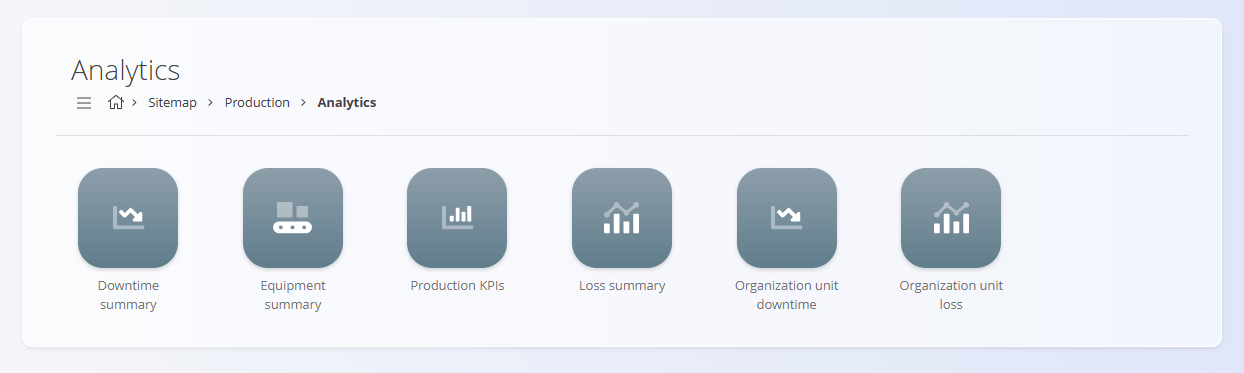
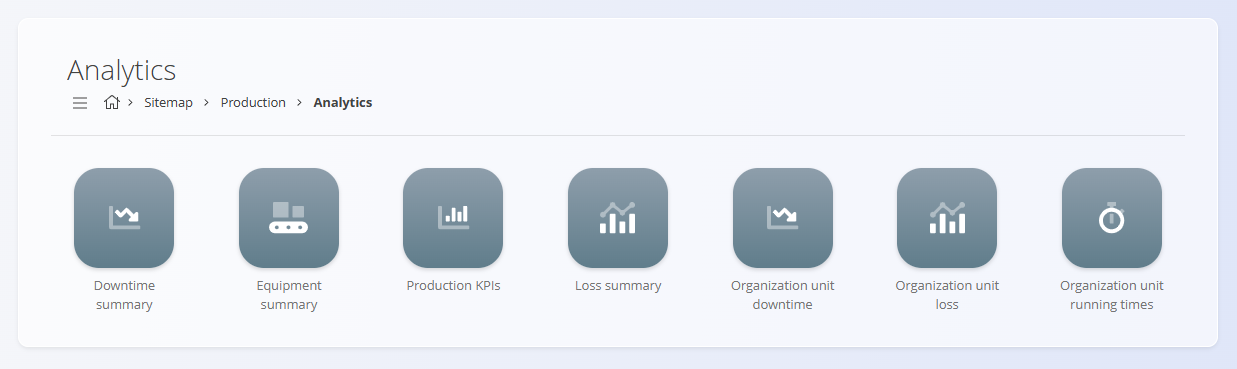
docs(en,sl,hr): add Organization unit running times
Add the Organization unit running times analytics page in all three
languages, with its summary and expanded-row screenshots, and list it
in the Production analytics sections. Update the Production analytics
image in each language.

diff --git a/hr/Domene/Proizvodnja/Analiza/OrganizationUnitRunningTimes.md b/hr/Domene/Proizvodnja/Analiza/OrganizationUnitRunningTimes.md
@@ -1,0 +1,52 @@
+<!-- app_route: /production/analytics/organization-unit-running-times -->
+<!-- app_label: Organization unit running times -->
+<!-- canonical_source_url: https://github.com/Tom-PIT/Connected.Docs/blob/main/hr/Domene/Proizvodnja/Analiza/OrganizationUnitRunningTimes.md -->
+<!-- canonical_source_title: Organization unit running times -->
+
+# Organization unit running times
+
+Pogled **Organization unit running times** prikazuje koliko je izvajalnih vremena zabilježeno za svaku organizacijsku jedinicu i koliko su ona ukupno trajala. Pogled koristite kada želite utvrditi koje organizacijske jedinice imaju najviše zabilježenog izvajalnog vremena u odabranom razdoblju.
+
+Ovaj pogled služi isključivo za analizu i **ne omogućuje** izradu ni promjenu operacija.
+
+Za pristup ovom pogledu otvorite **Proizvodnja / Analiza / Organization unit running times** u [navigaciji](../../../Zajednicko/UI/Navigacija.md).
+
+![Organization unit running times](../Images/OrganizationUnitRunningTimesViewHR.png "Organization unit running times")
+
+## Ukupne vrijednosti
+
+Dvije pločice na vrhu prikazuju ukupne vrijednosti za trenutni odabir:
+
+- **TOTAL COUNT** – Broj zabilježenih izvajalnih vremena.
+- **TOTAL DURATION** – Ukupno trajanje svih zabilježenih izvajalnih vremena, npr. **4d 17h 38min 11s**.
+
+## Filtri
+
+Lijeva bočna traka sadrži sljedeće filtre:
+
+- **DATE** – Odaberite razdoblje za koje želite prikazati izvajalna vremena.
+- **OPERATION** – Odaberite operaciju koju želite pregledati.
+
+## Popis organizacijskih jedinica
+
+Popis prikazuje zabilježena izvajalna vremena grupirana po **Organizacijskoj jedinici**. Za svaku organizacijsku jedinicu prikazuje:
+
+- **Organizacijska jedinica** – Šifra i naziv organizacijske jedinice.
+- **Count** – Broj zabilježenih izvajalnih vremena za tu organizacijsku jedinicu.
+- **Duration** – Ukupno trajanje tih izvajalnih vremena.
+
+Organizacijsku jedinicu pronađite pomoću polja za pretraživanje iznad popisa. Svaki redak možete proširiti strelicom s lijeve strane. Prošireni redak prikazuje svako zabilježeno izvajalno vrijeme za tu organizacijsku jedinicu, sa sljedećim stupcima:
+
+- **Start** – Datum i vrijeme početka izvajalnog vremena.
+- **End** – Datum i vrijeme završetka izvajalnog vremena.
+- **Duration** – Trajanje tog izvajalnog vremena.
+- **Operation** – Operacija koja je izvedena.
+- **Production order** – Proizvodni nalog kojem izvajalno vrijeme pripada, prikazan kao poveznica.
+
+![Organization unit running times – prošireni redak](../Images/OrganizationUnitRunningTimesExpandedHR.png "Organization unit running times – prošireni redak")
+
+## Izbornik
+
+Izbornik sadrži radnju **Pause all operations**. Radnja pauzira sve operacije proizvodnih naloga koji su trenutno u izvođenju. Prije izvođenja pojavi se dijalog u kojem radnju odobravate.
+
+Za pojedinosti o radnjama izbornika pogledajte [**Radnje izbornika**](../../../Zajednicko/Koncepti/RadnjeIzbornika.md).

diff --git a/sl/Domene/Proizvodnja/Analiza/IzvajalniCasiOrganizacijskihEnot.md b/sl/Domene/Proizvodnja/Analiza/IzvajalniCasiOrganizacijskihEnot.md
@@ -1,0 +1,52 @@
+<!-- app_route: /production/analytics/organization-unit-running-times -->
+<!-- app_label: Izvajalni časi organizacijskih enot -->
+<!-- canonical_source_url: https://tom-pit.github.io/Connected.Docs/sl/Domene/Proizvodnja/Analiza/IzvajalniCasiOrganizacijskihEnot/ -->
+<!-- canonical_source_title: Izvajalni časi organizacijskih enot -->
+
+# Izvajalni časi organizacijskih enot
+
+Pogled **Izvajalni časi organizacijskih enot** prikazuje, koliko izvajalnih časov je bilo zabeleženih za posamezno organizacijsko enoto in koliko so trajali skupaj. Pogled uporabite, če želite ugotoviti, katere organizacijske enote imajo v izbranem obdobju največ zabeleženega izvajalnega časa.
+
+Ta pogled je izključno analitičen in **ne omogoča** ustvarjanja ali spreminjanja operacij.
+
+Za dostop do tega pogleda pojdite na **Proizvodnja / Analiza / Izvajalni časi organizacijskih enot** v [navigaciji](../../../Skupno/UI/Navigacija.md).
+
+![Izvajalni časi organizacijskih enot](../Images/OrganizationUnitRunningTimesViewSL.png "Izvajalni časi organizacijskih enot")
+
+## Skupne vrednosti
+
+Na vrhu sta dve ploščici, ki prikazujeta skupne vrednosti za trenutno izbor:
+
+- **Skupno število** – Število zabeleženih izvajalnih časov.
+- **Skupno trajanje** – Skupno trajanje vseh zabeleženih izvajalnih časov, npr. **4d 17h 38min 11s**.
+
+## Filtri
+
+Leva stranska vrstica vsebuje naslednja filtra:
+
+- **Datum** – Izberite časovno obdobje, za katero želite prikazati izvajalne čase.
+- **Operacija** – Izberite operacijo, ki jo želite pregledati.
+
+## Seznam organizacijskih enot
+
+Seznam prikazuje zabeležene izvajalne čase, združene po **organizacijski enoti**. Za vsako organizacijsko enoto prikazuje:
+
+- **Organizacijska enota** – Šifra in naziv organizacijske enote.
+- **Število** – Število zabeleženih izvajalnih časov za to organizacijsko enoto.
+- **Trajanje** – Skupno trajanje teh izvajalnih časov.
+
+Organizacijsko enoto poiščite z iskalnim poljem nad seznamom. Vsako vrstico lahko razširite s puščico na levi. Razširjena vrstica prikaže vsak zabeleženi izvajalni čas za to organizacijsko enoto, s temi stolpci:
+
+- **Začetek** – Datum in čas začetka izvajalnega časa.
+- **Konec** – Datum in čas konca izvajalnega časa.
+- **Trajanje** – Trajanje tega izvajalnega časa.
+- **Operacija** – Operacija, ki je bila izvedena.
+- **Proizvodni nalog** – Proizvodni nalog, kateremu izvajalni čas pripada, prikazan s povezavo.
+
+![Izvajalni časi organizacijskih enot – razširjena vrstica](../Images/OrganizationUnitRunningTimesExpandedSL.png "Izvajalni časi organizacijskih enot – razširjena vrstica")
+
+## Meni
+
+Meni vsebuje dejanje **Pavziraj vse operacije**. Pavzirajte vse operacije proizvodnih nalogov, ki so trenutno v izvajanju. Prikaže se okno, v katerem dejanje odobrite.
+
+Za podrobnosti o dejanjih menija glejte [**Dejanja menija**](../../../Skupno/Koncepti/MeniDejanja.md).

diff --git a/en/Domains/Production/Analytics/OrganizationUnitRunningTimes.md b/en/Domains/Production/Analytics/OrganizationUnitRunningTimes.md
@@ -1,0 +1,54 @@
+<!-- app_route: /production/analytics/organization-unit-running-times -->
+<!-- app_label: Organization unit running times -->
+<!-- canonical_source_url: https://tom-pit.github.io/Connected.Docs/en/Domains/Production/Analytics/OrganizationUnitRunningTimes/ -->
+<!-- canonical_source_title: Organization unit running times -->
+
+# Organization unit running times
+
+The **Organization unit running times** page shows how many running times were recorded for each organization unit, and how long they lasted in total. Use it to see which organization units have the most recorded running time in a selected period.
+
+This page is analytical only. It does **not** create or change operations.
+
+To access this page, go to **Production / Analytics / Organization unit running times** in the [navigation](../../../Common/UI/Navigation.md).
+
+![Organization unit running times](../Images/OrganizationUnitRunningTimesView.png "Organization unit running times")
+
+## Totals
+
+Two tiles at the top show the totals for the current selection:
+
+- **Total count** – The number of recorded running times.
+- **Total duration** – The combined duration of all recorded running times, for example **4d 17h 38min 11s**.
+
+## Filters
+
+The left sidebar includes the following filters:
+
+- **Date** – Select a date range for which running times should be displayed.
+- **Operation** – Select the operation you want to view.
+
+## Organization unit list
+
+The table lists the recorded running times grouped by **Organization unit**. For each organization unit, it shows:
+
+- **Organization unit** – The code and name of the organization unit.
+- **Count** – The number of recorded running times for that organization unit.
+- **Duration** – The total duration of those running times.
+
+Use the search box above the table to find an organization unit. Each row can be expanded with the arrow on the left. An expanded row lists each recorded running time for that organization unit, with the following columns:
+
+- **Start** – The date and time when the running time began.
+- **End** – The date and time when the running time ended.
+- **Duration** – The duration of that running time.
+- **Operation** – The operation that was run.
+- **Production order** – The production order the running time belongs to, shown as a link.
+
+![Organization unit running times – expanded row](../Images/OrganizationUnitRunningTimesExpanded.png "Organization unit running times – expanded row")
+
+## Menu
+
+The menu lists the following action under **Action**:
+
+- **Pause all operations** – Pause all operations of production orders that are currently in progress. A dialog asks you to approve the action.
+
+For details about menu actions, see [**Menu actions**](../../../Common/Concepts/MenuActions.md).

diff --git a/hr/Domene/Proizvodnja/README.md b/hr/Domene/Proizvodnja/README.md
@@ -74,6 +74,7 @@ Dostupni analitički prikazi:
 - **[Sažetak gubitka (škarta)](Analiza/SazetakGubitka.md)** – raspodjela gubitaka (škart, dorada, neučinkovitost) po kategorijama.
 - **[Organization unit downtime](Analiza/OrganizationUnitDowntime.md)** – analiza zastoja po organizacijskoj jedinici.
 - **[Organization unit loss](Analiza/OrganizationUnitLoss.md)** – analiza gubitaka po organizacijskoj jedinici.
+- **[Organization unit running times](Analiza/OrganizationUnitRunningTimes.md)** – zabilježena vremena izvođenja po organizacijskoj jedinici.
 - **[Pregled troška verzije](Analiza/TrosakVerzije.md)** – procijenjeni trošak proizvodnje po komadu za određenu verziju procesa, uključujući materijale, rad i troškove.
 
 Ti uvidi podržavaju planiranje proizvodnje, kontinuirano poboljšanje i donošenje operativnih odluka.

diff --git a/en/Domains/Production/README.md b/en/Domains/Production/README.md
@@ -74,6 +74,7 @@ Available analytical views include:
 - **[Loss summary](Analytics/LossSummary.md)** – Distribution of losses (scrap, rework, inefficiency) by category.
 - **[Organization unit downtime](Analytics/OrganizationUnitDowntime.md)** – Downtime analysis by organization unit.
 - **[Organization unit loss](Analytics/OrganizationUnitLoss.md)** – Loss analysis by organization unit.
+- **[Organization unit running times](Analytics/OrganizationUnitRunningTimes.md)** – Recorded running times and their total duration by organization unit.
 - **[Version cost view](Analytics/VersionCostView.md)** – Estimated production cost per item for a specific process version, including materials, effort, and expenses.
 These insights support production planning, continuous improvement, and operational decision-making.
 

diff --git a/sl/Domene/Proizvodnja/README.md b/sl/Domene/Proizvodnja/README.md
@@ -86,6 +86,7 @@ Na voljo so naslednji analitični pregledi:
 - **[Povzetek slabih kosov](Analiza/PovzetekSlabihKosov.md)** – porazdelitev slabih kosov po kategorijah
 - **[Zastoji organizacijskih enot](Analiza/ZastojiOrganizacijskihEnot.md)** – analiza zastojev po organizacijskih enotah
 - **[Slabi kosi organizacijskih enot](Analiza/SlabiKosiOrganizacijskihEnot.md)** – analiza slabih kosov po organizacijskih enotah
+- **[Izvajalni časi organizacijskih enot](Analiza/IzvajalniCasiOrganizacijskihEnot.md)** – zabeleženi izvajalni časi po organizacijskih enotah.
 - **[Analiza stroškov verzije](Analiza/AnalizaStroskaVerzije.md)** – analiza stroškov po verzijah procesov
 
 Ti vpogledi podpirajo planiranje proizvodnje, stalne izboljšave
